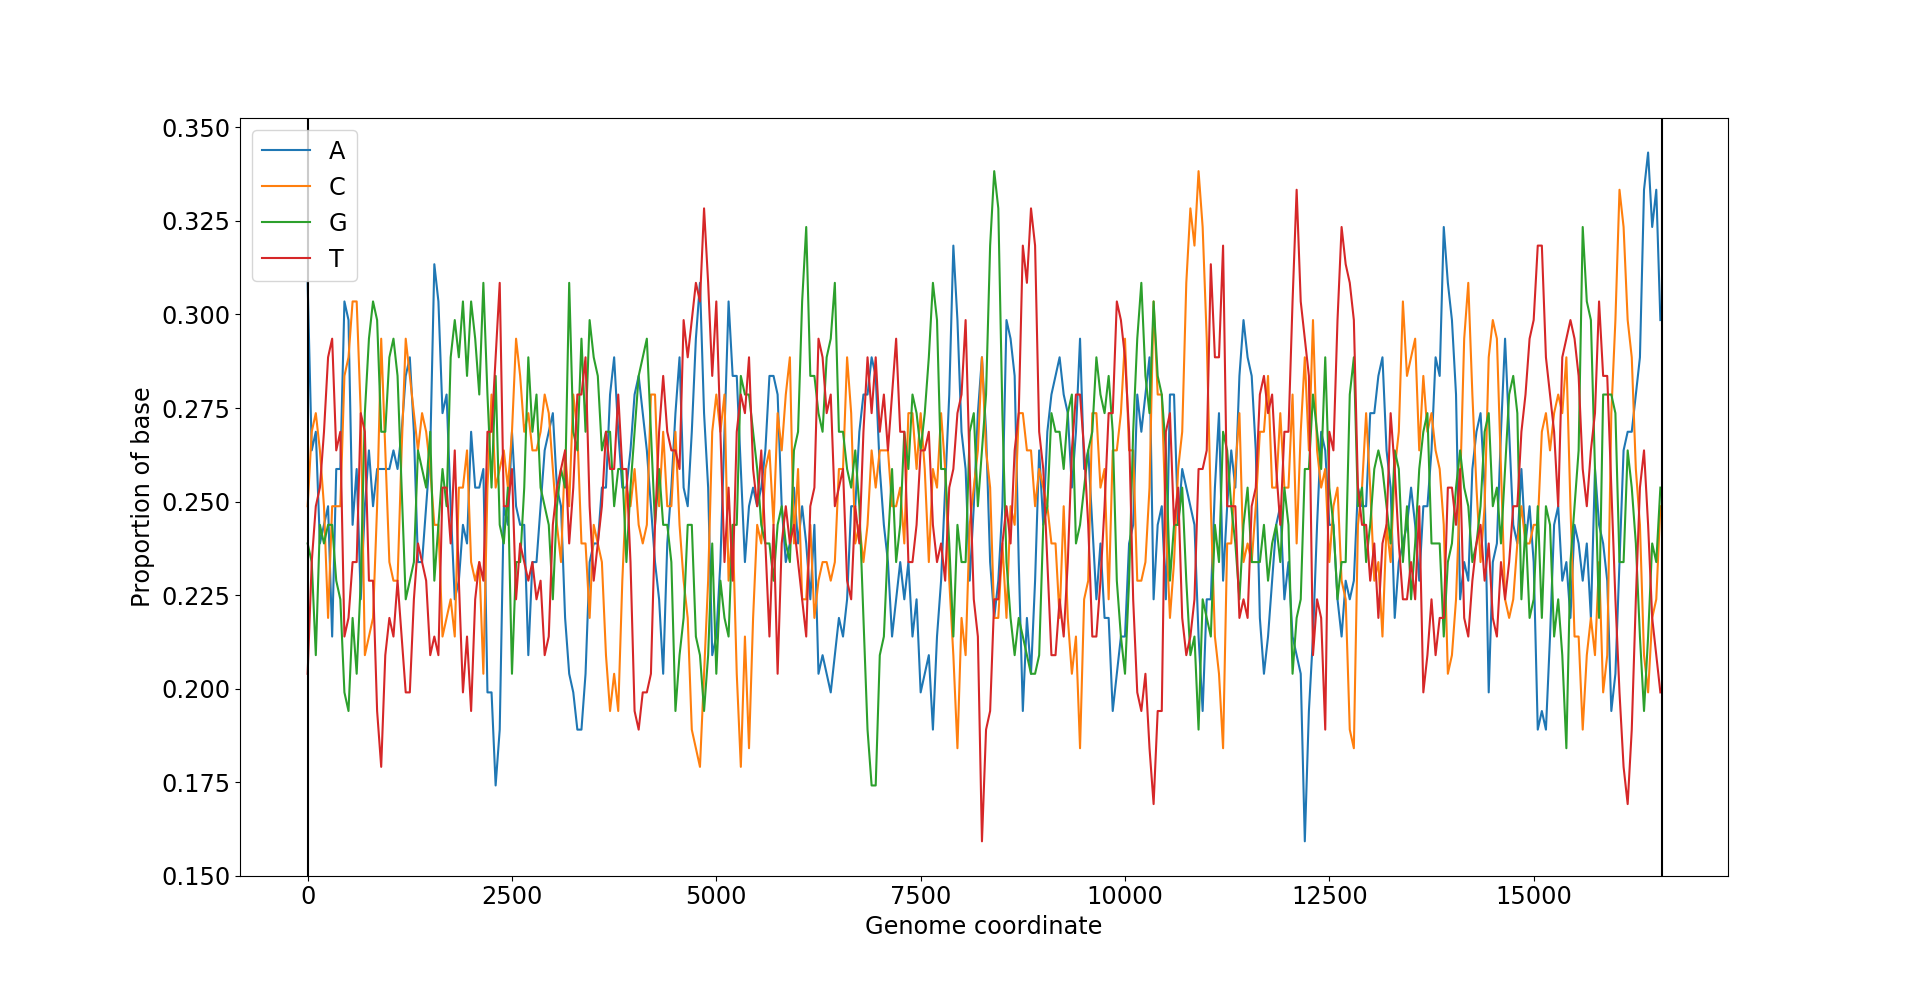
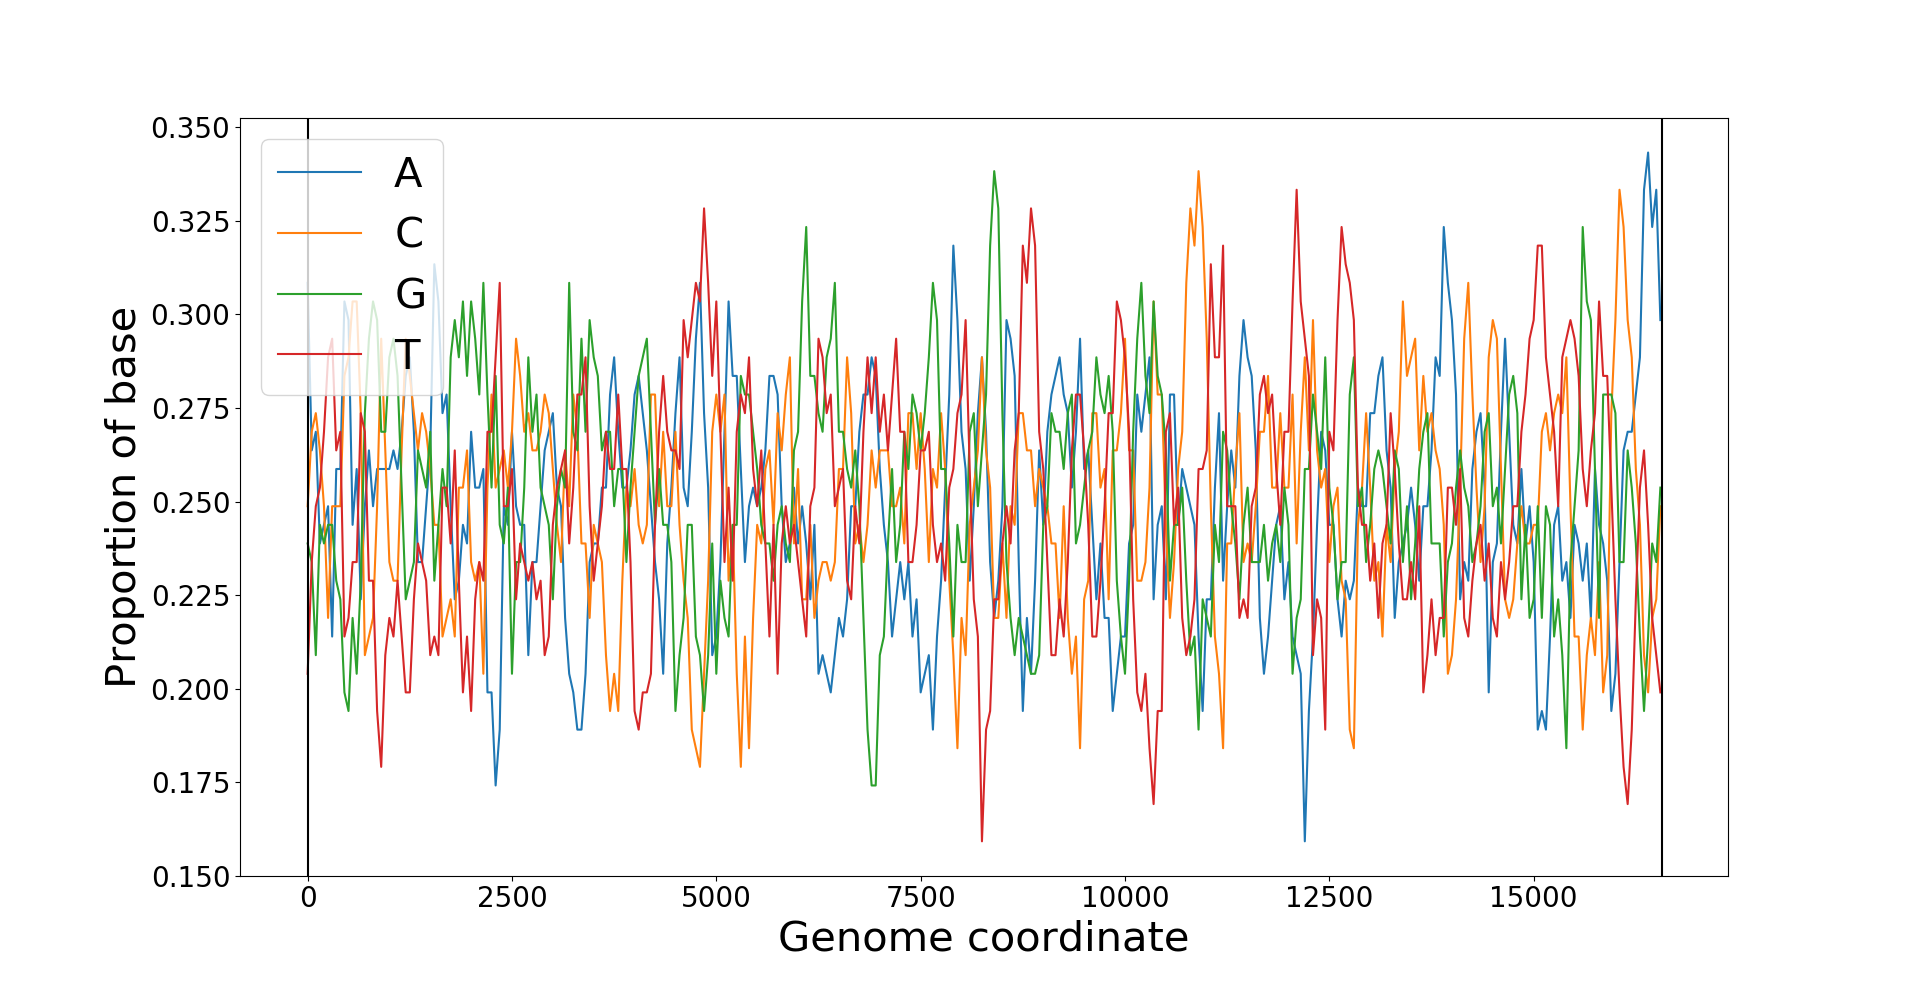
Resized plot text again to make it even larger

diff --git a/code/plot_mtDNA.py b/code/plot_mtDNA.py
@@ -27,10 +27,10 @@ def plot(genome, window, interval):
         plt.plot([f*interval for f in range(len(fractions[b]))], [fractions[b][f] for f in range(len(fractions[b]))])
     plt.axvline(x=0, color="k")
     plt.axvline(x=len(genome)-1, color="k")
-    plt.legend(bases, fontsize="xx-large")
-    plt.xlabel("Genome coordinate", size="xx-large")
-    plt.ylabel("Proportion of base", size="xx-large")
-    plt.tick_params(axis='both', which='major', labelsize="xx-large")
+    plt.legend(bases, fontsize=30)
+    plt.xlabel("Genome coordinate", size=30)
+    plt.ylabel("Proportion of base", size=30)
+    plt.tick_params(axis='both', which='major', labelsize=20)
     plt.show()
 
 path1="..\data\mtDNA.fa"

diff --git a/posts/diary.md b/posts/diary.md
@@ -46,5 +46,5 @@ It turns out that I should have had the program split up in to multiple configur
 
 Added more references to the diary, that had been sitting around commented out for a while
 
-Resized the labels on the diagrams to make them easier to read. I just guessed that size would be a parameter, but had to [look up](https://matplotlib.org/3.1.1/api/legend_api.html) about legend sizes and non absolute size values (passing "xx-large" instead of 20 for example).
+Resized the labels on the diagrams to make them easier to read. I just guessed that size would be a parameter, but had to [look up](https://matplotlib.org/3.1.1/api/legend_api.html) about legend sizes and non absolute size values (passing "xx-large" instead of 20 for example). I also had to look up [tick label sizes](https://stackoverflow.com/questions/6390393/matplotlib-make-tick-labels-font-size-smaller/11386056#11386056). I tried this then decided to not actually use it in the end because the largest relative size was still too small.
 
